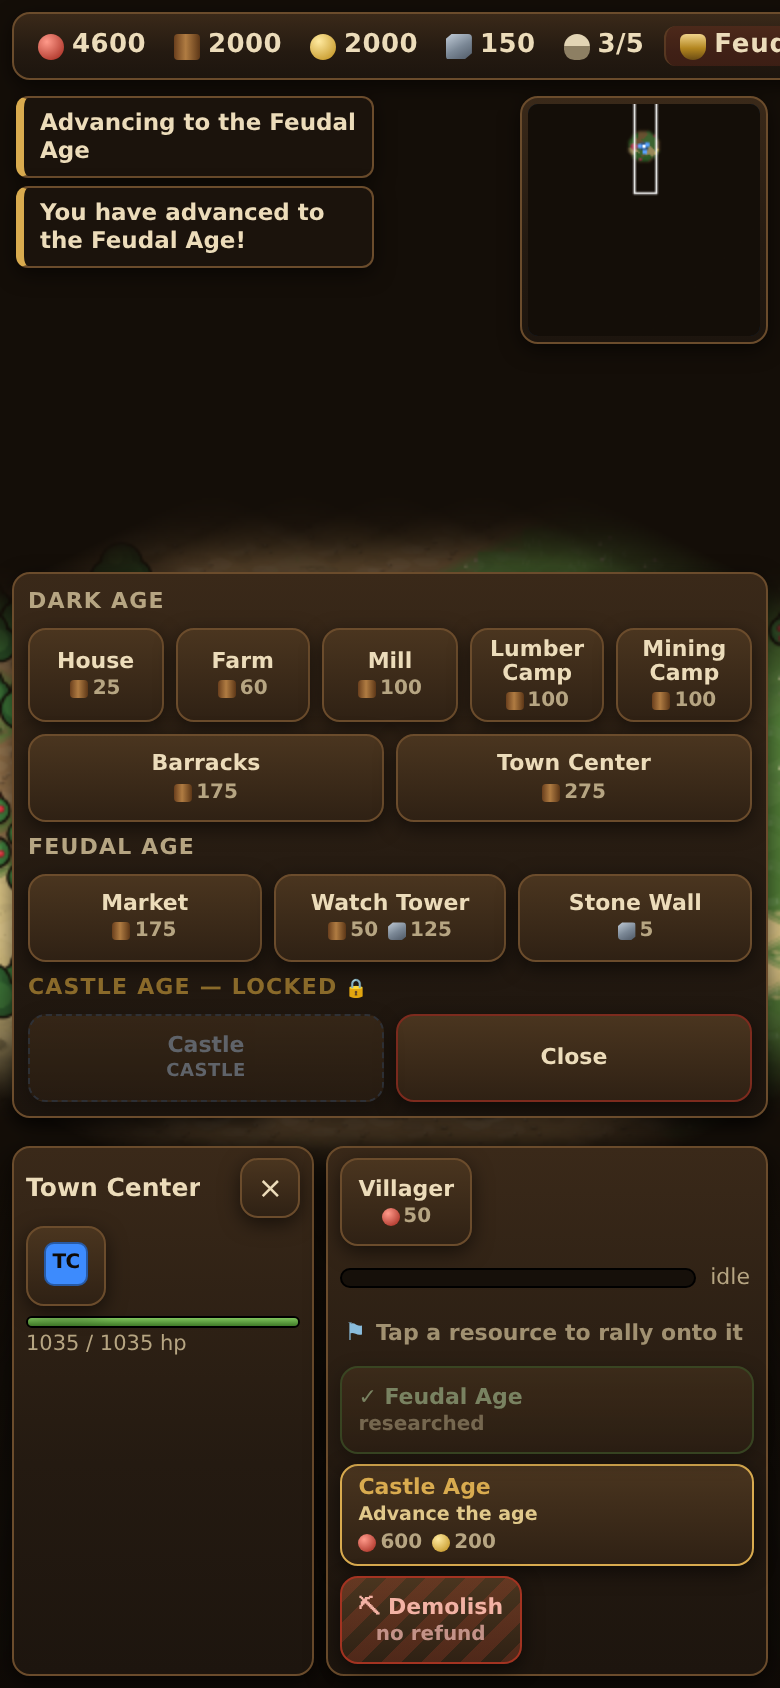
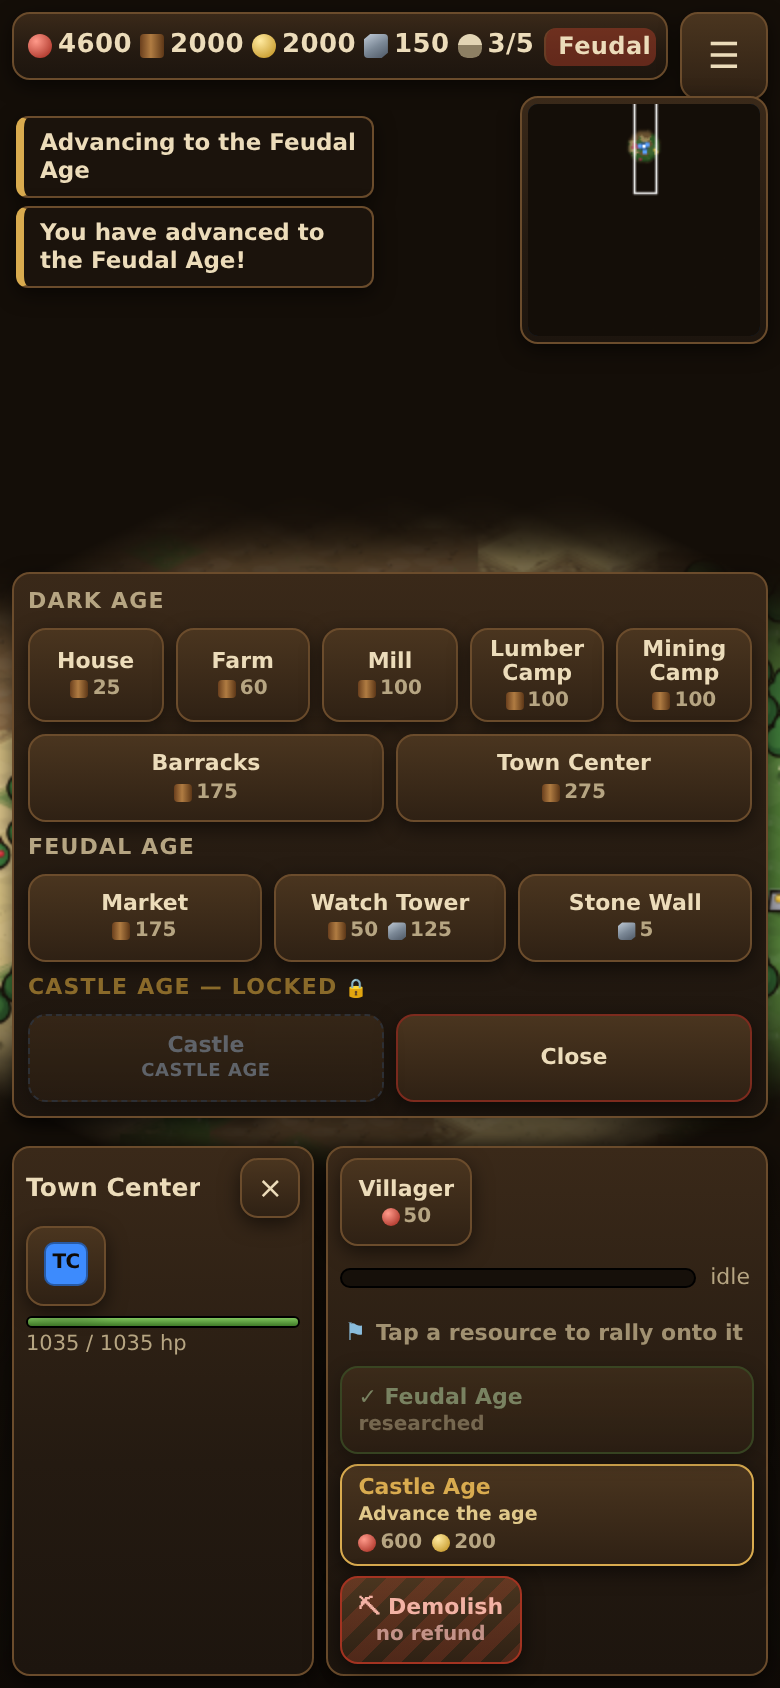
WIP checkpoint: tech tree polish
npm test green at 7 files. The tech pass is still refining its HUD panel;
the finished system lands with its own summary.

Claude-Session: https://claude.ai/code/session_01UneGN3iZX7WqeMmk2WH8D2

diff --git a/src/systems/tech.js b/src/systems/tech.js
@@ -805,6 +805,14 @@ export function updateResearch(world, dt) {
  *   'ready'     affordable and startable
  *   'poor'      allowed, but the stockpile is short
  *   'locked'    the wrong age, or a prerequisite is missing
+ *
+ * `gate` says *which* of those two locked it — 'age' or 'prereq' — and the HUD
+ * treats them very differently. An age-locked tech is shown, because the list
+ * of things the next age buys is the argument for paying for it. A
+ * prerequisite-locked one is hidden, because it is the same upgrade line one
+ * step further along: it appears in the very slot its predecessor vacates, so
+ * nothing is concealed, and showing all four tiers at once doubled the height
+ * of the Barracks panel for no information.
  */
 export function researchOptions(world, playerId, building) {
   if (!building || building.dead || building.kind !== 'building') return [];
@@ -813,6 +821,7 @@ export function researchOptions(world, playerId, building) {
     const t = TECHS[id];
     let status;
     let reason = null;
+    let gate = null;
     if (hasTech(world, playerId, id) ||
         (t.advancesTo !== undefined && currentAge(world, playerId) >= t.advancesTo)) {
       status = 'done';
@@ -823,6 +832,11 @@ export function researchOptions(world, playerId, building) {
       if (hard) {
         status = 'locked';
         reason = hard;
+        // Order matters and mirrors researchRefusal's: a tech that is behind
+        // both a prerequisite and an age is reported as behind the
+        // prerequisite, because that is the step the player takes next.
+        if (t.requires && !hasTech(world, playerId, t.requires)) gate = 'prereq';
+        else if (currentAge(world, playerId) < t.age) gate = 'age';
       } else if (!affordable(world, playerId, t.cost)) {
         status = 'poor';
         reason = 'Not enough resources';
@@ -830,7 +844,7 @@ export function researchOptions(world, playerId, building) {
         status = 'ready';
       }
     }
-    out.push({ id, tech: t, name: t.name, blurb: t.blurb, cost: t.cost, status, reason });
+    out.push({ id, tech: t, name: t.name, blurb: t.blurb, cost: t.cost, status, reason, gate });
   }
   return out;
 }

diff --git a/src/ui/hud.js b/src/ui/hud.js
@@ -1008,8 +1008,14 @@ export function createHud(scene, world) {
   }
 
   function renderResearch(panel, b) {
-    const options = tech.researchOptions(world, PLAYER, b);
-    if (!options.length) return;
+    const all = tech.researchOptions(world, PLAYER, b);
+    if (!all.length) return;
+
+    // Later tiers of a line the player has not started are folded away — see
+    // the note on `gate` in tech.js. Four full-width buttons is already most of
+    // a phone panel; eight was two thirds of the screen.
+    const options = all.filter((o) => o.gate !== 'prereq');
+    const folded = all.length - options.length;
 
     // In-progress first, with its own bar: it is the thing that is happening.
     if ((b.research || []).length) renderResearchQueue(panel, b);
@@ -1059,6 +1065,16 @@ export function createHud(scene, world) {
         });
       }
       panel.appendChild(btn);
+    }
+
+    // Say that the folded ones exist. Without this line a player who finishes
+    // Forging is surprised by a button appearing, and one who never finishes it
+    // never learns the line goes further.
+    if (folded > 0) {
+      panel.appendChild(el('div', 'cmd-note research-more',
+        folded === 1
+          ? 'One further upgrade unlocks behind these'
+          : `${folded} further upgrades unlock behind these`));
     }
   }
 

diff --git a/src/ui/hud.css b/src/ui/hud.css
@@ -435,7 +435,24 @@ body {
 }
 
 .sel-panel { flex: 0 0 40%; max-width: 168px; overflow: hidden; }
-.cmd-panel { flex: 1 1 auto; display: flex; flex-wrap: wrap; align-content: flex-start; gap: 5px; }
+/* Capped and scrolling. A Barracks in the Castle Age offers four upgrades on
+   top of two units, a queue row and a rally line, and without a ceiling the
+   bottom bar grew until it owned two thirds of the screen — which is the one
+   thing the whole HUD budget exists to prevent. 40vh is about as tall as this
+   panel may get before the map stops being the game. */
+.cmd-panel {
+  flex: 1 1 auto;
+  display: flex;
+  flex-wrap: wrap;
+  align-content: flex-start;
+  gap: 5px;
+  max-height: 40vh;
+  overflow-y: auto;
+  -webkit-overflow-scrolling: touch;
+}
+/* "3 further upgrades unlock behind these" — a full-width footnote, never a
+   button, so it can never be mistaken for something to tap. */
+.research-more { flex: 1 1 100%; font-size: 10px; opacity: 0.8; }
 
 .sel-empty {
   color: var(--parch-dim);

diff --git a/CHANGELOG.md b/CHANGELOG.md
@@ -73,3 +73,157 @@ Roughly half the old speed, retuned as one set:
   economy by its own `MAX_HOUSES` limit; growing past that is a later pass.
 - Test assertions were repinned to the new pacing rather than the pacing being
   reverted to satisfy them.
+
+## Tech tree
+
+New module `src/systems/tech.js` owns ages, building unlocks and research. It is
+Phaser-free and runs headlessly; `updateResearch` ticks from `updateEconomy`
+rather than from the scene, because research is production and belongs on the
+training queue's beat.
+
+### Ages
+
+Three, not AoE2's four — Imperial in a ten-minute match would be a tier nobody
+reaches.
+
+| Age | Cost | Research time | Buys |
+| --- | --- | --- | --- |
+| Dark | — (start) | — | the economy, the Barracks |
+| Feudal | 400 food | 50s | the first tier of every upgrade line, Feudal buildings, +15% building hp |
+| Castle | 600 food + 200 gold | 65s | the second tier, Castle buildings, +30% building hp |
+
+- Researched at the Town Center, which is occupied by it (its research slot is
+  taken, with a progress bar in the HUD) but keeps training villagers — that is
+  AoE2's behaviour and stopping villager production for fifty seconds would make
+  the age-up unaffordable in a way the cost already handles.
+- AoE2's own costs are 500 food and 800 food + 200 gold. Measured against this
+  economy those land the Feudal Age at ~5:30 of a ten-minute match, past the
+  point where it can pay for anything; 400 and 600+200 put the two at roughly
+  3:30 and 7:00 on a good opening.
+- Aging up scales every building the player owns — standing, wounded or still a
+  foundation — to +15% / +30% maximum hitpoints, keeping damage as a fraction.
+  This is the buff that lands the instant the age does, so the age-up is not
+  purely a shopping list you then have to pay for again; hitpoints because it is
+  the one bonus that helps the player who is behind.
+- New events: `EV.RESEARCH_START`, `EV.RESEARCH_DONE`, `EV.AGE_ADVANCE`.
+
+### Building unlocks
+
+- Dark: Town Center, House, Mill, Lumber Camp, Mining Camp, Farm, palisade,
+  **Barracks**.
+- Feudal: Archery Range, Stable, Blacksmith, Market, Watch Tower, stone wall.
+- Castle: Castle, Siege Workshop, University, Monastery.
+
+The Barracks is Dark Age, against the brief's suggested table. It is Dark Age in
+AoE2 — the Barracks and the Militia are both Dark Age and the drush is the
+oldest opening in the game — and moving it to Feudal would also have pushed the
+enemy AI's first barracks (105s) and first wave (170s) out past the age-up,
+which is the pacing everything else is tuned around.
+
+- Buildings that do not exist yet are named in the tables anyway and filtered
+  against `BUILDING_STATS`, so the Castle/wall/tower/Market pass slots in with no
+  edit here. `BUILDABLE` carries the same forward declarations.
+- An unrecognised type defaults to Dark Age (never permanently locked out),
+  except one that costs stone, which defaults to Feudal — in AoE2 nothing you pay
+  stone for is a Dark Age building.
+- The build menu shows locked buildings, grouped under age headings, greyed with
+  the age they need where the cost would go. Tapping one says why. Hiding them
+  would ask the player to buy an age blind.
+- `placementRefusal` / `canPlaceReachable` refuse a locked type before geometry,
+  so the ghost, the toast and the placement all say the same sentence.
+
+### Upgrades
+
+| Tech | Building | Age | Cost | Effect |
+| --- | --- | --- | --- | --- |
+| Horse Collar | Mill | Feudal | 75F 75W | +15% food |
+| Heavy Plough | Mill | Castle | 125F 125W | +15% food |
+| Double-Bit Axe | Lumber Camp | Feudal | 100F 50W | +20% wood |
+| Bow Saw | Lumber Camp | Castle | 150F 100W | +20% wood |
+| Gold Mining | Mining Camp | Feudal | 100F 75W | +15% gold |
+| Gold Shaft Mining | Mining Camp | Castle | 200F 150W | +15% gold |
+| Stone Mining | Mining Camp | Feudal | 100F 75W | +15% stone |
+| Stone Shaft Mining | Mining Camp | Castle | 200F 150W | +15% stone |
+| Forging | Barracks | Feudal | 150F | +1 melee attack |
+| Iron Casting | Barracks | Castle | 220F 120G | +1 melee attack |
+| Fletching | Barracks | Feudal | 100F 50G | +1 ranged attack |
+| Bodkin Arrow | Barracks | Castle | 200F 100G | +1 ranged attack |
+| Scale Mail | Barracks | Feudal | 100F | +1 melee armour |
+| Chain Mail | Barracks | Castle | 200F 100G | +1 melee armour |
+| Padded Archer Armour | Barracks | Feudal | 100F | +1 ranged armour |
+| Leather Archer Armour | Barracks | Castle | 150F 150G | +1 ranged armour |
+
+- Costs are AoE2's, unrounded — resource costs in this game have always been
+  AoE2's real numbers and only the times are compressed (roughly 0.4, the same
+  factor as build and train times).
+- Tiers stack additively, as in AoE2: two wood tiers is +40%, not +44%.
+- Each tech names a *preference list* of buildings and takes the first that
+  exists, so the blacksmith line says `['blacksmith', 'barracks']` and moves to a
+  Blacksmith by itself the day one is added.
+- Unit classes (`melee` / `ranged` / `worker`) are derived from `UNIT_STATS` —
+  `projectile: true` is ranged, anything the Town Center trains is a worker — so
+  a Knight or a Spearman added later is upgraded without a line changing.
+
+### How the effects are read
+
+- `gatherRateFor(resourceType, world, playerId)` — the resource type still comes
+  first and the two new arguments are optional, so a caller with no player gets
+  the base rate. `gatherTick` passes the gathering villager's owner.
+- `combat.js` reads `effectiveAttack` / `effectiveArmor` **at the moment of the
+  swing** and never copies a bonus onto a unit. A Forging finished while your
+  army is standing in the enemy's base makes that army hit harder immediately,
+  which is how AoE2 works; stamping the bonus at train time is the classic bug
+  where the army you already paid for is the army that dies. Projectiles
+  snapshot their damage at launch, because an arrow in the air was already loosed.
+
+### Research mechanics
+
+- A generic queue on the building (`building.research`), sharing the training
+  queue's shape: `{ remaining, total }` entries, head-of-queue tick with
+  overshoot carried, full refund on cancel, capped at 3. It is deliberately a
+  *separate* array from `building.queue`, because `recomputePop` counts every
+  entry in `queue` as a reserved population point and a Bow Saw would silently
+  cost a villager's worth of pop for 28 seconds.
+- Techs are permanent per player and idempotent: `completeResearch` returns false
+  for anything already done, and `queueResearch` refuses a tech already finished
+  or already under way anywhere, so nothing double-charges or double-applies.
+- HUD: selecting a building lists its upgrades as ≥44px buttons carrying name,
+  effect and cost. Done ones are green and ticked, in-progress gold, age-locked
+  greyed with the age, unaffordable greyed with the reason — and every greyed
+  button is still tappable and explains itself, because a dead button on a phone
+  is indistinguishable from a missed tap. Later tiers of a line the player has
+  not started are folded away behind a "N further upgrades unlock behind these"
+  footnote; showing all four tiers filled two thirds of the screen.
+- `.cmd-panel` is now capped at 40vh and scrolls, so no future panel can grow the
+  bottom bar without limit.
+- A compact age indicator sits at the end of the resource bar, set off by a
+  hairline rule and brightening with each age. It is the one entry with no pip:
+  it is not a quantity. The bar's padding, gaps and pip size were trimmed ~55px
+  to keep six items on one line through most of a match, and it now wraps rather
+  than clipping when a late-game bank overflows it (the toast stack measures the
+  bar and moves down to match).
+
+### Enemy AI
+
+- Ages up on a schedule — earliest 4:15 and 8:15, gated behind 10/18 villagers
+  and a stockpile reserve, which in practice lands the Feudal Age at 5:30-8:00
+  and the Castle at 8:15-9:30 across seeds. Deliberately behind what a human who
+  chooses to stop making villagers can manage.
+- Shops the economic upgrades at whichever drop-off is free, wood line first,
+  then the blacksmith line once it has six soldiers to improve. One purchase per
+  pass, each behind a reserve that has to survive it — an upgrade that stalls
+  production for forty seconds has cost more than it gave.
+- Skips a gathering upgrade for a resource nobody is assigned to, tested against
+  the live job board rather than a hardcoded exclusion, so Stone Mining starts
+  being bought the day the villager split grows a fourth leg.
+- New stats: `techsResearched`, `ageUps`.
+
+### Tests
+
+`tests/tech.test.mjs`, 39 checks. Beyond the obvious: an economic upgrade is
+verified by *measuring* wood banked over ten seconds rather than by reading the
+multiplier; a military upgrade is verified against a unit that was already alive
+when it finished; researching twice is checked for both no-op and no-double-
+charge; the age-up bill is compared against the table; and a synthetic Castle is
+injected into `BUILDING_STATS` mid-test to prove a building added by another pass
+gets age-gated with no edit to the unlock tables.
